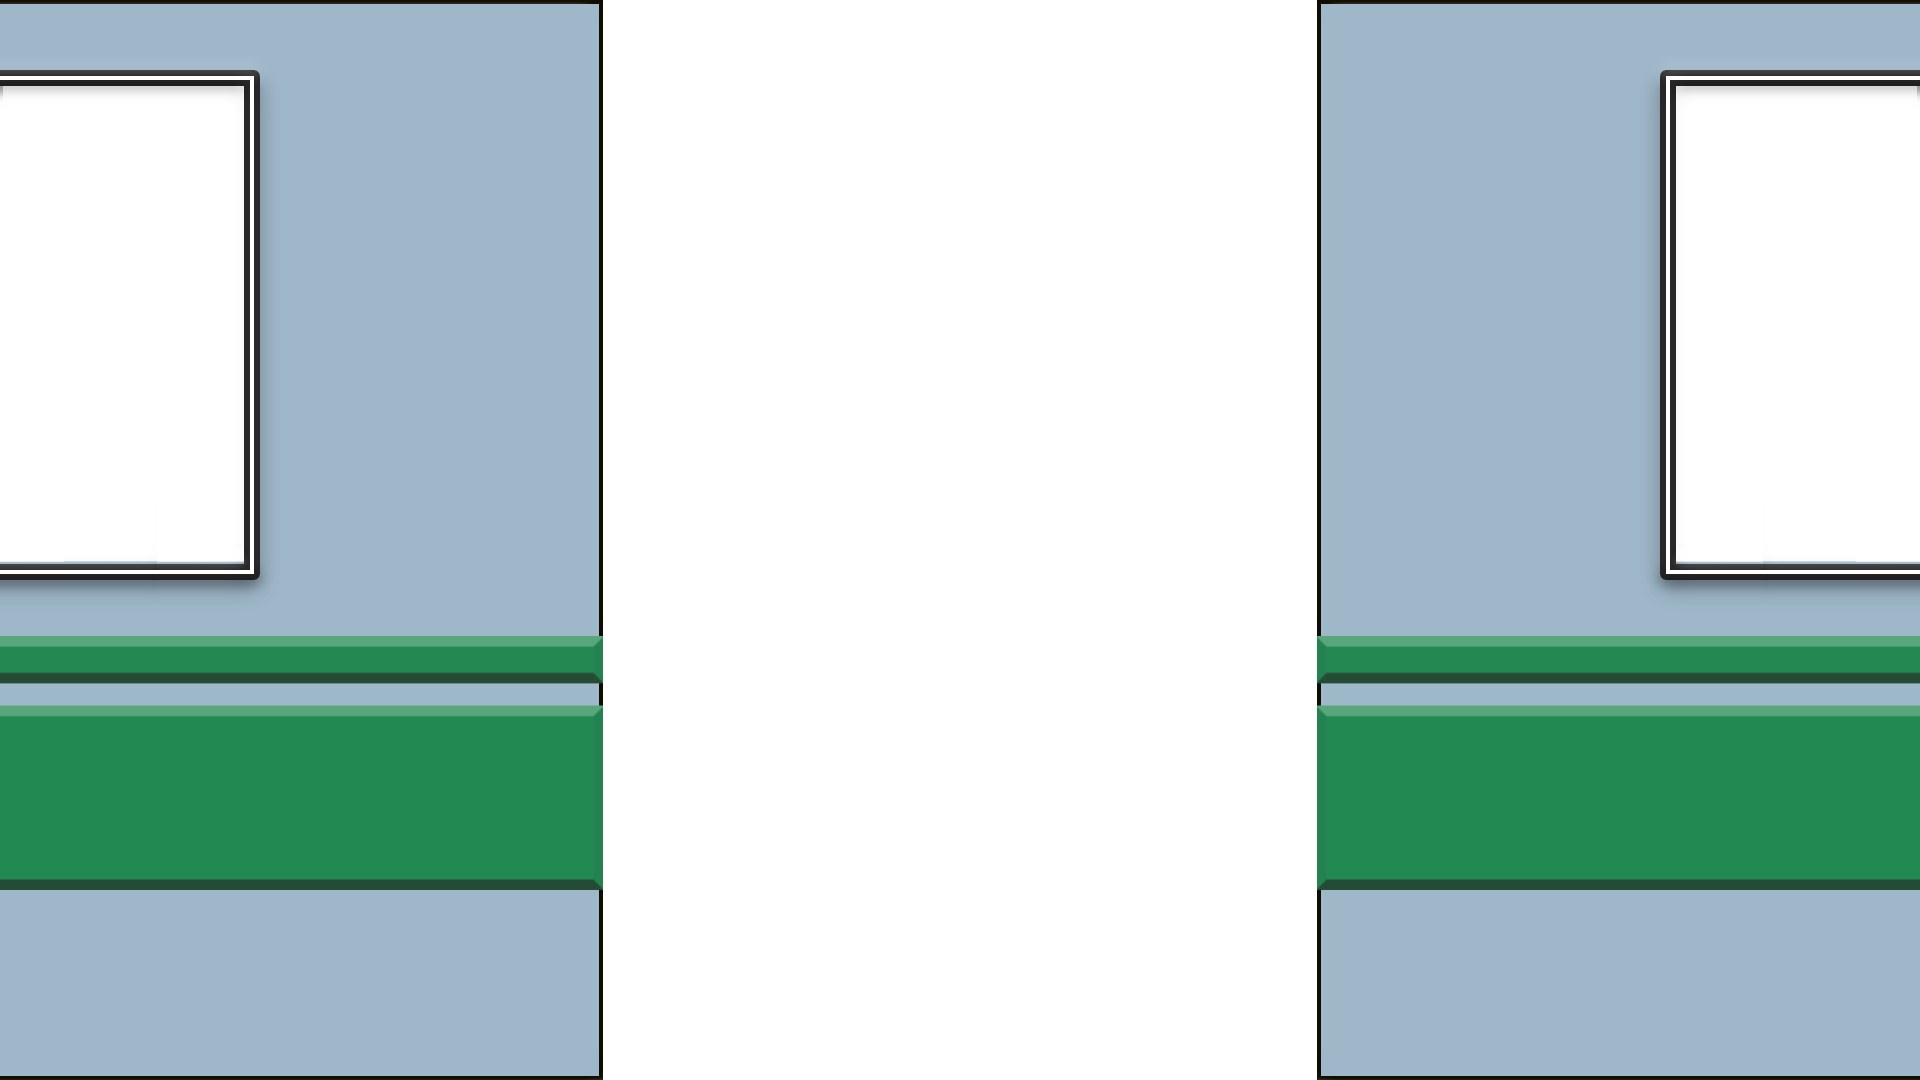
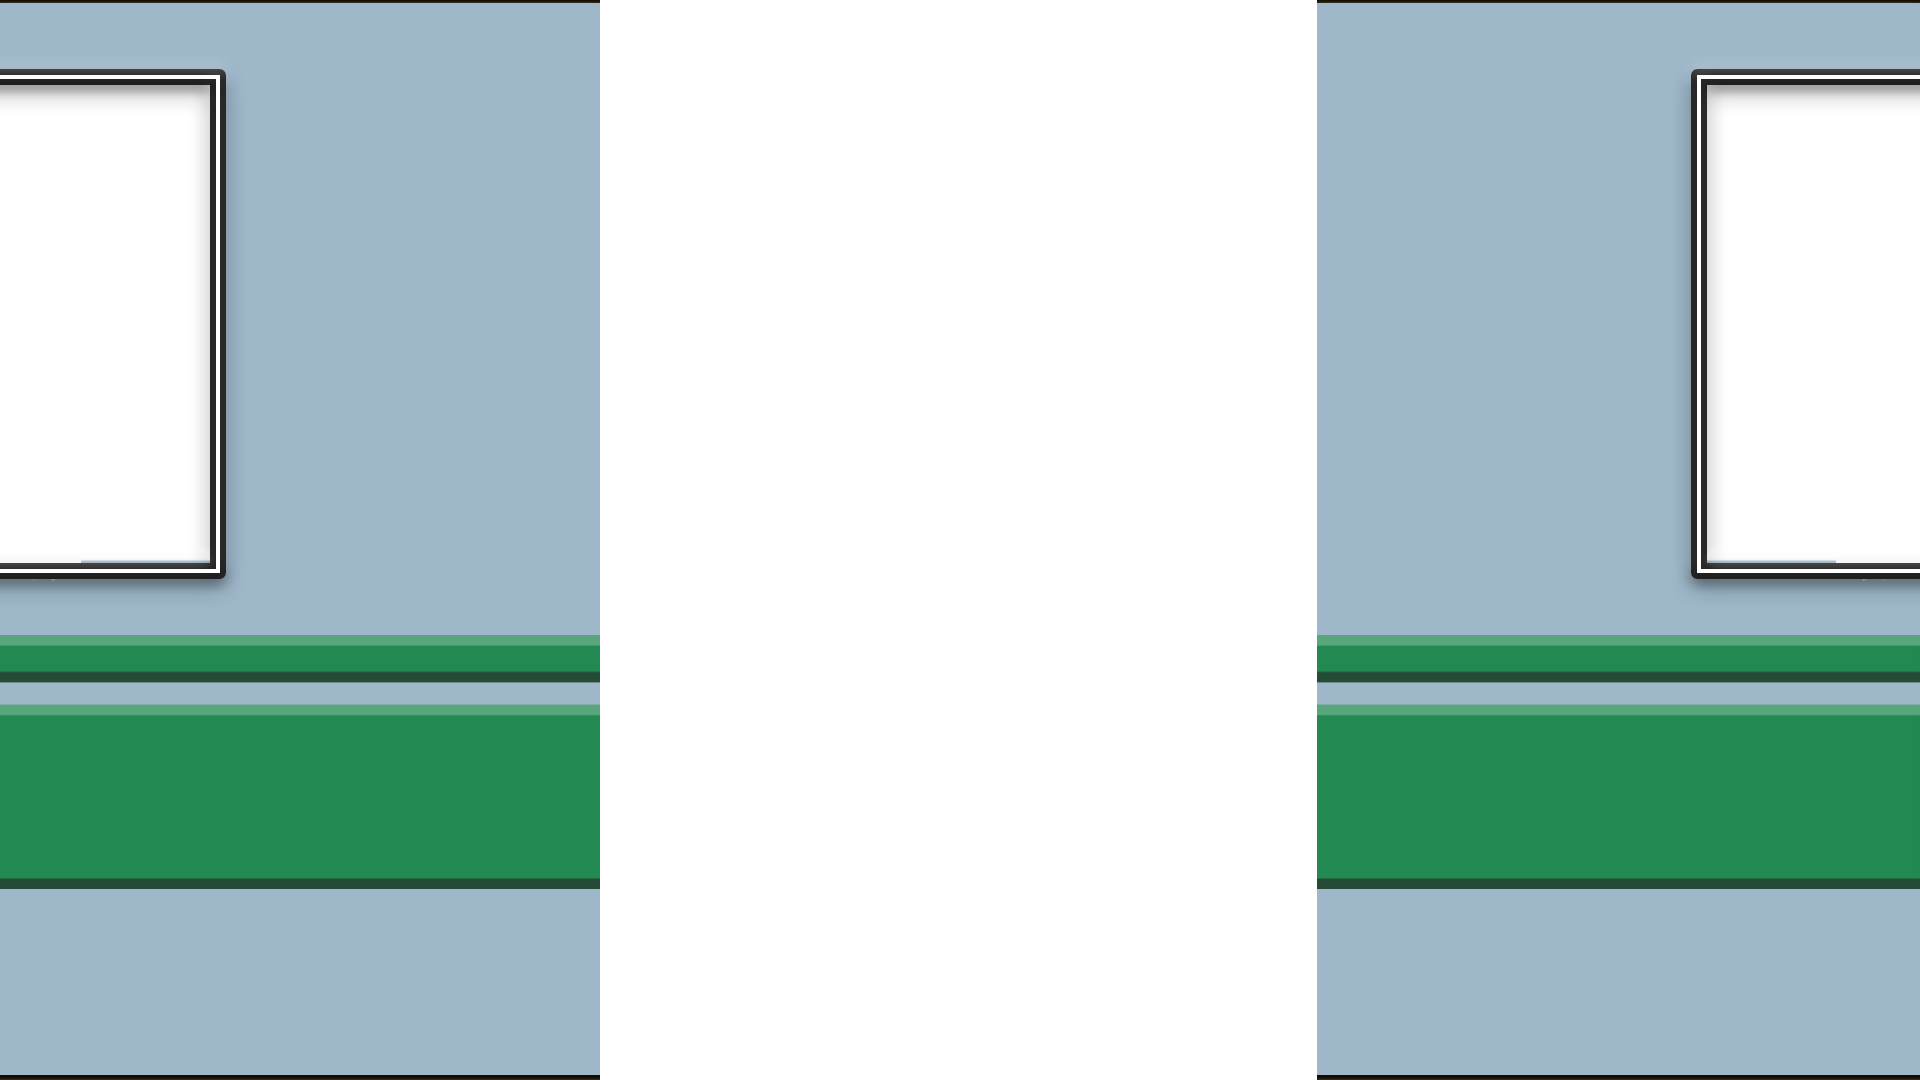
自動プレイ調整中

diff --git a/Assets/master_Scripts/AutoPlay_sanoki.cs b/Assets/master_Scripts/AutoPlay_sanoki.cs
@@ -9,7 +9,8 @@ public class AutoPlay_sanoki : MonoBehaviour {
     TitlePurogram_sanoki TitlePro;
 
     public GameObject UNKOman;
-    bool isPlay;
+
+    public bool isPlay;
 
     bool TapFlg;
 
@@ -24,8 +25,7 @@ public class AutoPlay_sanoki : MonoBehaviour {
     {
         TitlePro = FindObjectOfType<TitlePurogram_sanoki>();
         touchMase = FindObjectOfType<TouchAnimationController_mase>();
-        GimmickRay = new Ray2D(UNKOman.transform.position, UNKOman.transform.right);
-        CancelRay = new Ray2D(UNKOman.transform.position, -UNKOman.transform.right);
+        GimmickRay = new Ray2D(new Vector2(UNKOman.transform.position.x - 3, UNKOman.transform.position.y) , UNKOman.transform.right);
     }
 
     void Update()
@@ -45,21 +45,12 @@ public class AutoPlay_sanoki : MonoBehaviour {
         {
             isPlay = false;
             if(!isPlay){
+                isPlay = true;
                 Invoke("Move", TapSpeed);
             }
-            if(hit.collider)
-            {
-                switch (hit.collider.gameObject.name)
-                {
-                    case "rougai":
-                        touchMase.Wait();
-                        break;
-                }
-            }
-
-           
         }
         Debug.DrawRay(GimmickRay.origin, GimmickRay.direction * Distans, Color.red);
+        Debug.DrawRay(CancelRay.origin, CancelRay.direction * Distans, Color.blue);
     }
 
     void Move()

diff --git a/Assets/master_Scripts/DoorAnimation_sanoki.cs b/Assets/master_Scripts/DoorAnimation_sanoki.cs
@@ -7,6 +7,8 @@ public class DoorAnimation_sanoki : MonoBehaviour {
 
     TutorialSlide_Murata slide;
 
+    public RectTransform canvas;
+
     public Image[] Door;
 
     public float OpenSpeed;
@@ -17,7 +19,7 @@ public class DoorAnimation_sanoki : MonoBehaviour {
     Vector2 EndPos_left;
 
     bool isOpen;
-
+    
     enum door
     {
         Right,
@@ -26,11 +28,18 @@ public class DoorAnimation_sanoki : MonoBehaviour {
 
     void Start () {
 
-        //for (int i = 0; i < Door.Length; i++) {
-            //Door[i].rectTransform.sizeDelta.x                                  
-                
-
         slide = FindObjectOfType<TutorialSlide_Murata>();
+
+        Vector2 ImageSize = new Vector2(Door[0].sprite.bounds.size.x,Door[0].sprite.bounds.size.y);
+
+        for (int i = 0; i < Door.Length; i++)
+        {
+            Door[i].rectTransform.sizeDelta = new Vector2((ImageSize.x * canvas.sizeDelta.y )/ ImageSize.y, canvas.sizeDelta.y); 
+        }
+
+        Door[(int)door.Right].transform.localPosition = new Vector2(Door[(int)door.Right].rectTransform.sizeDelta.x , 0);
+        Door[(int)door.Left].transform.localPosition = new Vector2(-Door[(int)door.Right].rectTransform.sizeDelta.x , 0);
+
         StartPos_right = Door[(int)door.Right].transform.localPosition;
         StartPos_left = Door[(int)door.Left].transform.localPosition;
         EndPos_right = new Vector2(

diff --git a/Assets/master_Scripts/TrainMove_sanoki.cs b/Assets/master_Scripts/TrainMove_sanoki.cs
@@ -23,7 +23,7 @@ public class TrainMove_sanoki : MonoBehaviour
     public GameObject GoalTrainPrefab;
     public GameObject BackImagePrefab;//背景のプレハブ
     public GameObject PolePrefab;//電柱のプレハブ
-    new SpriteRenderer renderer; //ゲームシーン上でのサイズを取得する用
+    SpriteRenderer renderer; //ゲームシーン上でのサイズを取得する用
 
     //画像サイズを保存する
     float TrainSizeX;//電車のサイズを保存する
@@ -89,6 +89,7 @@ public class TrainMove_sanoki : MonoBehaviour
     }
     void Start()
     {
+
         //サイズの取得---------------------------------------------------------------------------------------
         renderer = TrainPrefab[0].GetComponent<SpriteRenderer>();//BackImagePrefab[0]のSpriteRendererを取得
         TrainSizeX = renderer.bounds.size.x;//生成したときの画像サイズを取得
@@ -121,11 +122,6 @@ public class TrainMove_sanoki : MonoBehaviour
         if (hit.collider)
         {
             isCenter = true;
-        }
-
-        if (Input.GetKeyDown(KeyCode.Space))
-        {
-            GameStart();
         }
 
         if (TrainImage[0] == null || TrainImage[1] == null)

diff --git a/Assets/master_Scripts/CharacterOperation_murata.cs b/Assets/master_Scripts/CharacterOperation_murata.cs
@@ -134,7 +134,7 @@ public class CharacterOperation_murata : MonoBehaviour {
         //タップダウン
         if (Input.GetKeyDown(KeyCode.Mouse0))
         {
-            trainMove_s.Action();//背景動く
+            //trainMove_s.Action();//背景動く
             GageCount++;//ゲージに１加算
             
             if (GageCount<50)
@@ -158,7 +158,7 @@ public class CharacterOperation_murata : MonoBehaviour {
         //タップアップ
         if (Input.GetKeyUp(KeyCode.Mouse0))
         {
-            trainMove_s.Action();//背景動く
+            //trainMove_s.Action();//背景動く
             pressingSeconds = 0.0f;//長押しの時間をリセット
             if (GageCount<50)
             {

diff --git a/Assets/master_Scripts/TouchAnimationController_mase.cs b/Assets/master_Scripts/TouchAnimationController_mase.cs
@@ -16,10 +16,12 @@ public class TouchAnimationController_mase : MonoBehaviour
 
 
     Yankee_nishiwaki yankee;
+    AutoPlay_sanoki auto;
 
     // Use this for initialization
     void Start()
     {
+        auto = FindObjectOfType<AutoPlay_sanoki>();
         animator = GetComponent<Animator>();
         animator.speed = speed;
 
